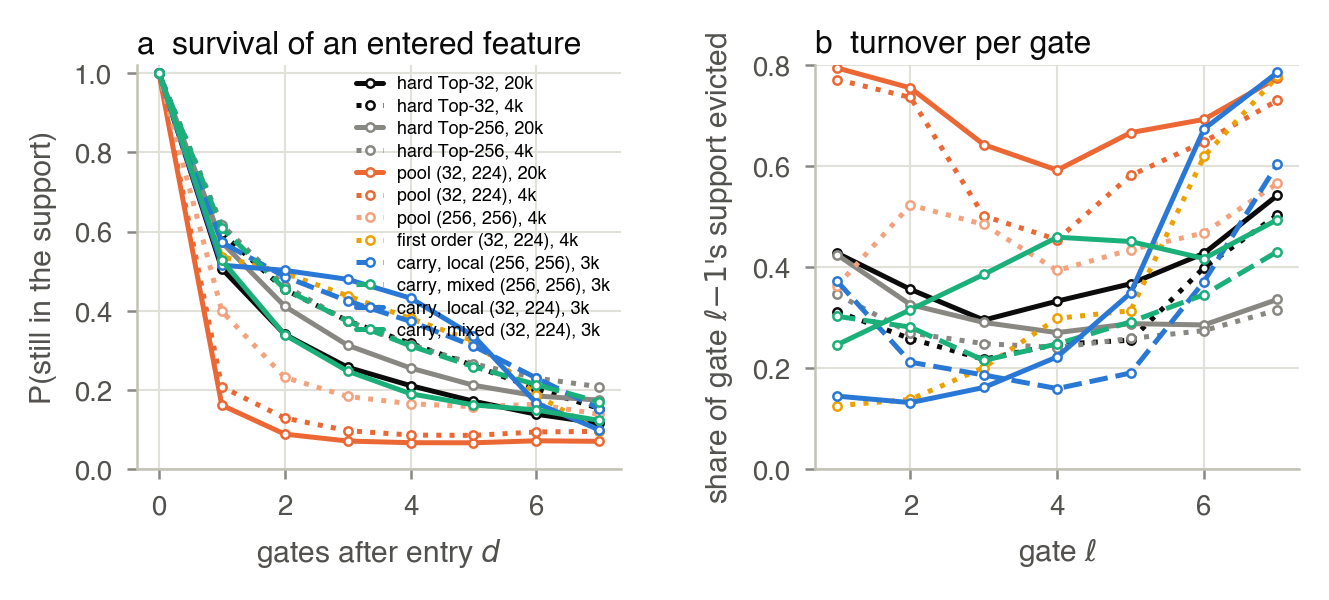
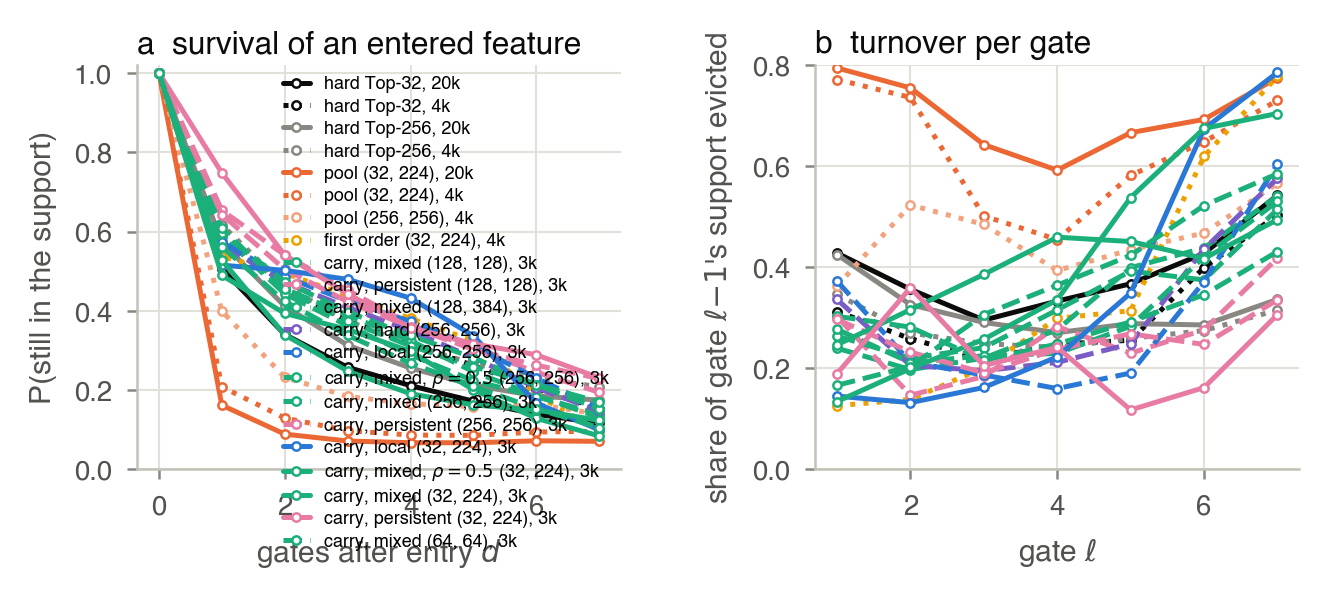
alt note: round-1 results, width evaluation figure

diff --git a/docs/alt-support-training.tex b/docs/alt-support-training.tex
@@ -56,7 +56,59 @@ blind.  A candidate is not carried (its code value is zero), so the term is appl
 cannot compound along the identity.
 
 \section{Results}
-\PH{}
+
+\textbf{Setup.}  The code-carried cells of the K+J grid, 3000-step screens with the grid's 20k schedule untouched,
+eight RTX 5090 (the grid's own machine), step-matched against the grid's hard Top-\(K\) baselines (post-norm) and
+its RBLapSum \code{pool} cells; the carry-scope results of \code{docs/carry-surrogate.tex} are shown for reference.
+Candidate A trains the hard baseline's own config (post-norm) with a random width; B and C train the \code{pool}
+cell's config (no post-norm, \(T=2\)) with one field changed.
+
+\begin{figure}[t]
+\centering
+\includegraphics[width=.74\textwidth]{figures/carry/fig_alt.png}
+\caption{Validation CE minus the code-carried hard Top-\(K\) baseline over the first 3000 steps; dashed, hard
+Top-\((K{+}J)\).  \textbf{a} \((32,224)\); \textbf{b} \((256,256)\).}
+\label{fig:alt}
+\end{figure}
+
+\textbf{At step 3000, minus hard Top-\(K\)} (Fig.~\ref{fig:alt}, Table~\ref{tab:alt}).  At \((256,256)\), the cell
+where the unmodified surrogate loses \(0.047\), both stochastic widths beat the hard model -- two-point \(-0.008\),
+uniform \(-0.006\) -- with no surrogate and no gradient modification, matching the best carry scope (\(-0.005\));
+candidates-only RBLapSum ends at \(+0.004\) and the soft straight-through at \(+0.030\).  At \((32,224)\) the two-point
+width gives \(-0.019\), the uniform width \(+0.014\) (the model is trained at a mean width of 144 and evaluated at
+32), candidates-only RBLapSum \(-0.032\), soft straight-through \(+0.018\); the unmodified surrogate is at \(-0.061\)
+and the mixed carry scope at \(-0.118\).  \PH{round 2: two-point p=0.25, geometric J/16, diagonal cells, 10k}
+
+\begin{figure}[t]
+\centering
+\includegraphics[width=.74\textwidth]{figures/carry/fig_widths.png}
+\caption{One checkpoint, several inference widths: validation CE at step 3000 of the stochastic-width models
+evaluated with hard Top-\(K'\) for \(K'\) in their training range, against the grid's hard models trained at each
+\(K'\) (\code{analysis/eval\_widths.py}).}
+\label{fig:widths}
+\end{figure}
+
+\textbf{What a stochastic-width model is} (Fig.~\ref{fig:widths}).  Evaluated across its training range, the model
+is not a slimmable ladder: its loss is lowest at an intermediate width and rises again toward \(K{+}J\), where it is
+far above the hard model trained there (\(1.736\) against \(1.703\) at \(K'=512\)).  At the narrow end it beats the hard
+models: the uniform model trained at \(K=32\) gives \(1.809\) at \(K'=64\) against \(1.835\) for hard Top-64, and both
+\(K=256\) models beat hard Top-256 at \(K'=256\).  The random width acts as a regularizer on the support -- the
+network cannot rely on any particular candidate being present -- rather than as a way of training several models
+at once.
+
+\begin{table}[t]
+\centering\footnotesize
+\begin{tabular}{llccccccc}
+\toprule
+\(K\) & \(J\) & pool & carry mixed & width, uniform & width, two-point & width, geometric & soft STE & cand.\ only \\
+\midrule
+32 & 224 & \(-0.061\) & \(-0.118\) & \(+0.014\) & \(-0.019\) & \PH{} & \(+0.018\) & \(-0.032\) \\
+256 & 256 & \(+0.047\) & \(-0.005\) & \(-0.006\) & \(-0.008\) & \PH{} & \(+0.030\) & \(+0.004\) \\
+\bottomrule
+\end{tabular}
+\caption{Validation CE at step 3000 minus hard Top-\(K\) of the row (\(1.899\), \(1.741\)).}
+\label{tab:alt}
+\end{table}
 
 \section{Reading}
 \PH{}

diff --git a/scripts/plot_carry.py b/scripts/plot_carry.py
@@ -512,6 +512,36 @@ def table_alt(step=3000):
         print(f"K={K} J={J}: " + "  ".join(row) + f"  hard{K + J} {hk[step] - h[step]:+.3f}")
 
 
+def fig_widths():
+    """Validation CE of one checkpoint at several inference widths, against the hard ladder."""
+    import glob
+    cv = curves()
+    files = sorted(glob.glob(os.path.join(DATA, "alt", "widths_ma_alt_sw_*.json")))
+    if not files:
+        return
+    fig, axes = plt.subplots(1, 2, figsize=(5.0, 1.8), gridspec_kw={"wspace": 0.45})
+    ladder = {Kp: series(cv, f"ma_cr_hard_k{Kp}_pnorm").get(3000) for Kp in (32, 64, 128, 256, 512)}
+    for ax, K in zip(axes, (32, 256)):
+        xs = [Kp for Kp in sorted(ladder) if Kp >= K and ladder[Kp] is not None]
+        ax.plot(xs, [ladder[Kp] for Kp in xs], "--o", color=INK, ms=2.5, lw=0.9, label="hard Top-$K'$ trained at $K'$")
+        for f in files:
+            d = json.load(open(f))
+            if d["k_train"] != K:
+                continue
+            key = "sw_two" if "_two_" in f else ("sw_uni" if "_uni_" in f else "sw_geo")
+            w = sorted((int(a), b) for a, b in d["widths"].items())
+            lab, color, _ = STYLE[key]
+            ax.plot([a for a, _ in w], [b for _, b in w], "-o", color=color, ms=2.5, lw=1.2, label=lab + f", trained at $K{{=}}{K}$")
+        ax.set_xscale("log", base=2)
+        ticks = xs if K == 32 else [256, 320, 384, 448, 512]
+        ax.set_xticks(ticks); ax.set_xticklabels([str(x) for x in ticks]); ax.minorticks_off()
+        ax.set_xlabel(r"inference width $K'$")
+        ax.set_ylabel("val CE at step 3000")
+        ax.set_title(rf"{'ab'[K == 256]}  models trained at $K{{=}}{K}$")
+        ax.legend(fontsize=4.8, loc="best")
+    save(fig, "fig_widths")
+
+
 if __name__ == "__main__":
     os.makedirs(OUT, exist_ok=True)
     fig_init()
@@ -526,3 +556,4 @@ if __name__ == "__main__":
     fig_mech()
     fig_alt()
     table_alt()
+    fig_widths()
